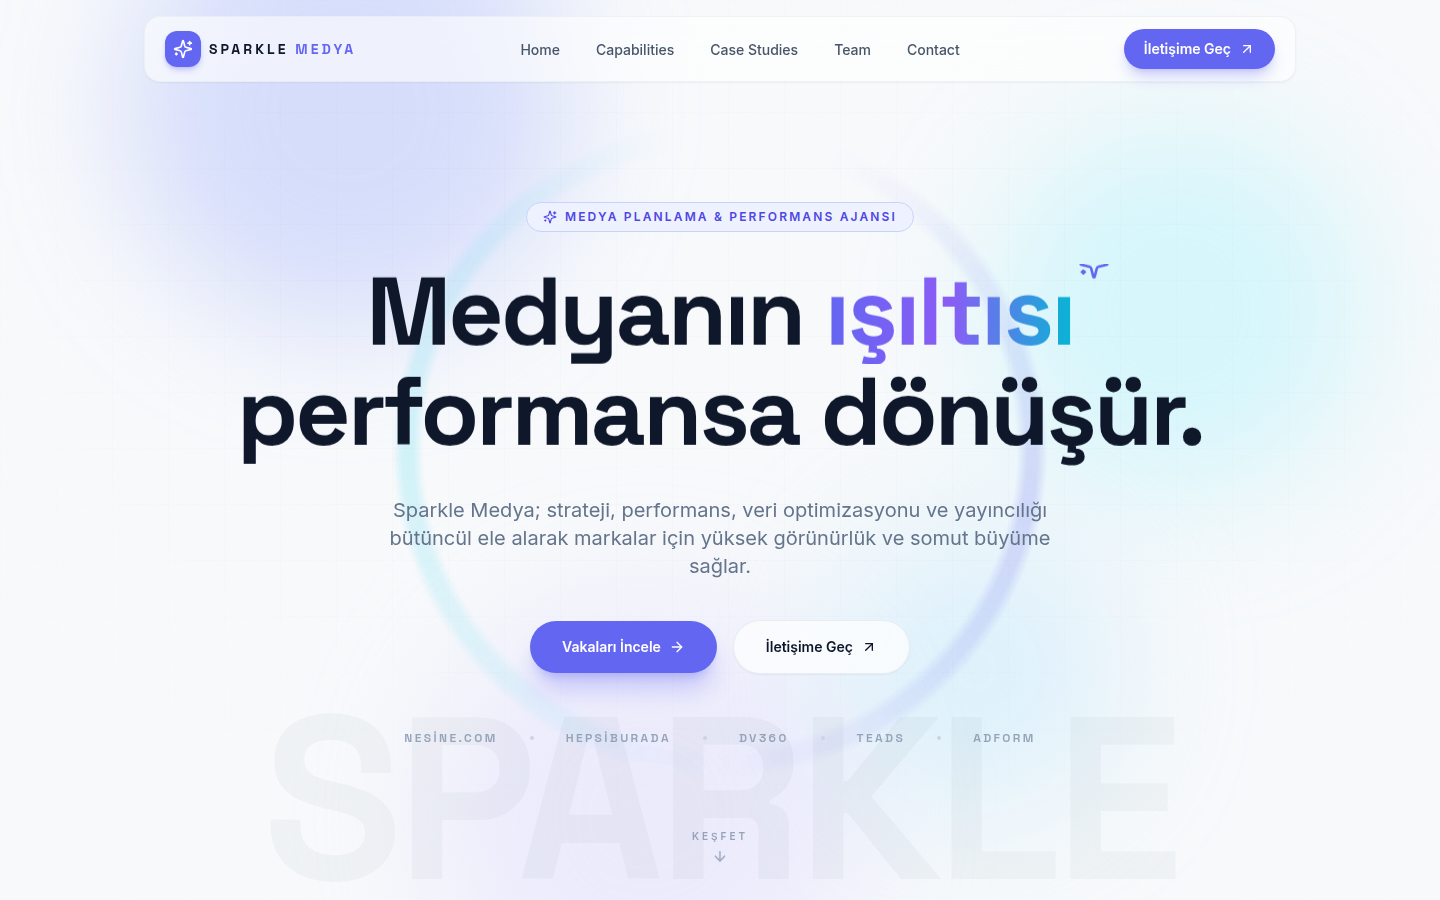
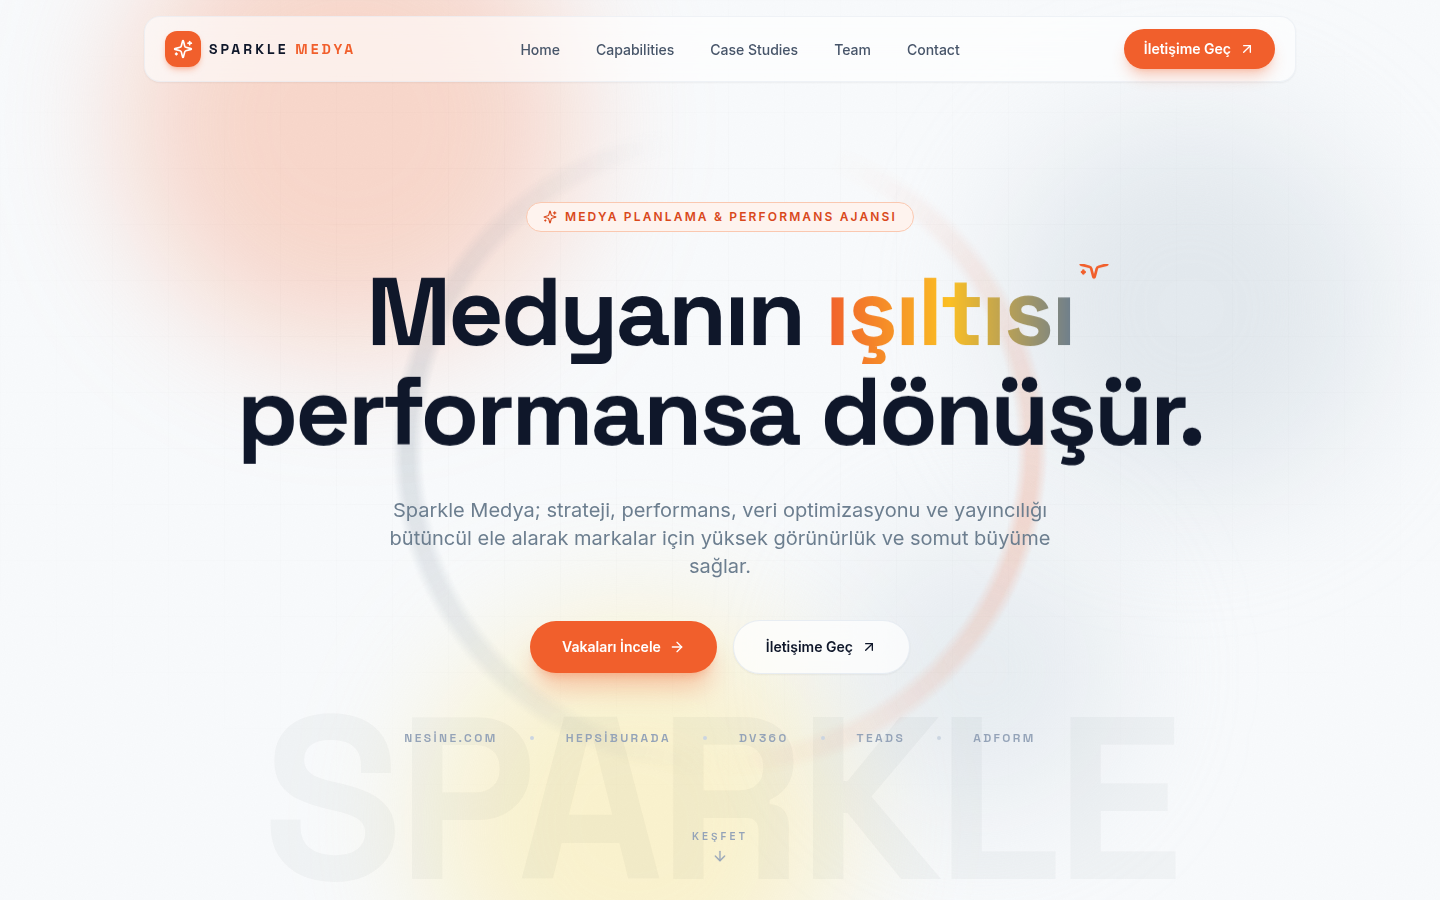
Add files via upload

diff --git a/src/data/content.jsx b/src/data/content.jsx
@@ -35,13 +35,13 @@ export const NAV_LINKS = [
 /* Page background tints, morphed as each section takes the stage. */
 export const SECTION_BG = {
   hero: "#F8FAFC",
-  manifesto: "#EEF2FF",
+  manifesto: "#FEF3EE",
   stats: "#FFFFFF",
   capabilities: "#F8FAFC",
-  cases: "#EEF2FF",
+  cases: "#F3F6F8",
   process: "#FFFFFF",
   team: "#F1F5F9",
-  contact: "#F8FAFC",
+  contact: "#FEF3EE",
 };
 
 export const CAPABILITIES = [
@@ -53,7 +53,7 @@ export const CAPABILITIES = [
       "DV360, Teads ve Adform üzerinde tam yetkin ekiplerle programatik satın alma, gerçek zamanlı optimizasyon ve şeffaf raporlama.",
     tags: ["DV360", "Teads", "Adform"],
     icon: MonitorPlay,
-    accent: "violet",
+    accent: "amber",
   },
   {
     id: "performance",
@@ -73,7 +73,7 @@ export const CAPABILITIES = [
       "Doğru yüzler ve oyun içi sesli reklam formatlarıyla markanızı, erişilmesi en zor kitlelerin tam kalbine taşıyoruz.",
     tags: ["Influencer", "In-Game Audio", "Branded Content"],
     icon: Gamepad2,
-    accent: "violet",
+    accent: "amber",
   },
 ];
 
@@ -91,7 +91,7 @@ export const CASE_STUDIES = [
     ],
     awards: ["Felis", "MIXX"],
     art: "dco",
-    gradient: "from-brand-500/15 via-violet-400/10 to-transparent",
+    gradient: "from-brand-500/15 via-amber-300/10 to-transparent",
     chip: "text-brand-600 bg-brand-50 border-brand-200",
     number: "01",
   },
@@ -108,8 +108,8 @@ export const CASE_STUDIES = [
     ],
     awards: ["Kristal Elma"],
     art: "audio",
-    gradient: "from-cyan-500/15 via-cyan-300/10 to-transparent",
-    chip: "text-cyan-700 bg-cyan-50 border-cyan-200",
+    gradient: "from-steel-500/15 via-steel-300/10 to-transparent",
+    chip: "text-steel-600 bg-steel-50 border-steel-200",
     number: "02",
   },
   {
@@ -125,7 +125,7 @@ export const CASE_STUDIES = [
     ],
     awards: ["MIXX Europe"],
     art: "film",
-    gradient: "from-violet-500/15 via-cyan-400/10 to-transparent",
+    gradient: "from-amber-400/15 via-steel-300/10 to-transparent",
     chip: "text-brand-600 bg-brand-50 border-brand-200",
     number: "03",
   },
@@ -138,7 +138,7 @@ export const TEAM = [
     experience: "27 Yıl Tecrübe",
     years: 27,
     initials: "BK",
-    accent: "violet",
+    accent: "amber",
     bio: "Türkiye'nin önde gelen medya gruplarında satın alma ve strateji liderliği.",
   },
   {
@@ -156,7 +156,7 @@ export const TEAM = [
     experience: "19 Yıl Tecrübe",
     years: 19,
     initials: "ÖG",
-    accent: "violet",
+    accent: "amber",
     bio: "Performans pazarlama ve veri odaklı büyüme operasyonları uzmanı.",
   },
 ];
@@ -238,7 +238,7 @@ export const BENTO_CAPABILITIES = [
     title: "Performance",
     description: "Dönüşüm odaklı medya; her lira ölçülür, her gün optimize edilir.",
     icon: TrendingUp,
-    accent: "cyan",
+    accent: "steel",
     span: "lg:col-span-2",
   },
   {
@@ -246,7 +246,7 @@ export const BENTO_CAPABILITIES = [
     title: "SEO / Analytics",
     description: "Arama görünürlüğü ve veri altyapısı tek çatıda.",
     icon: Search,
-    accent: "violet",
+    accent: "amber",
     span: "lg:col-span-2",
   },
   {
@@ -263,7 +263,7 @@ export const BENTO_CAPABILITIES = [
     description:
       "Oyun içi sesli reklamla ekrana bakmayan kullanıcıya bile ulaşın — kanıtlanmış 14X gelir çarpanı.",
     icon: Gamepad2,
-    accent: "cyan",
+    accent: "steel",
     span: "lg:col-span-3",
   },
   {
@@ -272,7 +272,7 @@ export const BENTO_CAPABILITIES = [
     description:
       "Kantar iş birliğiyle marka bilinirliği ve satış etkisi bağımsız ölçümlenir.",
     icon: Gauge,
-    accent: "violet",
+    accent: "amber",
     span: "lg:col-span-3",
   },
   {
@@ -314,7 +314,7 @@ export const PROCESS_STEPS = [
     description:
       "Markanızı, kitlenizi ve rakip sahayı veriyle okuyoruz; fırsat haritası çıkıyor.",
     icon: Compass,
-    accent: "violet",
+    accent: "amber",
   },
   {
     step: "02",
@@ -330,7 +330,7 @@ export const PROCESS_STEPS = [
     description:
       "Kampanya tüm kanallarda canlıya alınıyor; ilk saatten itibaren canlı izleme.",
     icon: Rocket,
-    accent: "violet",
+    accent: "amber",
   },
   {
     step: "04",

diff --git a/src/components/Hero.jsx b/src/components/Hero.jsx
@@ -87,16 +87,16 @@ const Hero = () => {
       {/* Gradient mesh background */}
       <div className="pointer-events-none absolute inset-0" aria-hidden="true">
         <div className="hero-blob absolute -top-24 left-[8%] h-[28rem] w-[28rem] rounded-full bg-brand-300/40 blur-3xl" />
-        <div className="hero-blob absolute right-[5%] top-[12%] h-[24rem] w-[24rem] rounded-full bg-cyan-200/40 blur-3xl" />
-        <div className="hero-blob absolute bottom-[-8rem] left-[30%] h-[26rem] w-[26rem] rounded-full bg-violet-200/40 blur-3xl" />
-        <div className="hero-blob absolute bottom-[10%] right-[22%] h-[18rem] w-[18rem] rounded-full bg-sky-200/40 blur-3xl" />
+        <div className="hero-blob absolute right-[5%] top-[12%] h-[24rem] w-[24rem] rounded-full bg-steel-200/50 blur-3xl" />
+        <div className="hero-blob absolute bottom-[-8rem] left-[30%] h-[26rem] w-[26rem] rounded-full bg-amber-200/40 blur-3xl" />
+        <div className="hero-blob absolute bottom-[10%] right-[22%] h-[18rem] w-[18rem] rounded-full bg-steel-200/40 blur-3xl" />
 
         {/* Rotating conic accent ring */}
         <div
           className="hero-ring absolute left-1/2 top-1/2 h-[46rem] w-[46rem] -translate-x-1/2 -translate-y-1/2 rounded-full opacity-60"
           style={{
             background:
-              "conic-gradient(from 0deg, transparent 0deg, rgba(99,102,241,0.35) 80deg, transparent 160deg, rgba(34,211,238,0.3) 250deg, transparent 330deg)",
+              "conic-gradient(from 0deg, transparent 0deg, rgba(241,95,44,0.32) 80deg, transparent 160deg, rgba(108,126,143,0.32) 250deg, transparent 330deg)",
             maskImage:
               "radial-gradient(circle, transparent 57%, black 59%, black 61%, transparent 63%)",
             WebkitMaskImage:
@@ -143,7 +143,7 @@ const Hero = () => {
             <span className="hero-line-inner block will-change-transform">
               Medyanın{" "}
               <span className="relative inline-block">
-                <span className="bg-gradient-to-r from-brand-500 via-violet-500 to-cyan-500 bg-clip-text text-transparent">
+                <span className="bg-gradient-to-r from-brand-500 via-amber-400 to-steel-500 bg-clip-text text-transparent">
                   ışıltısı
                 </span>
                 <Sparkles

diff --git a/tailwind.config.js b/tailwind.config.js
@@ -15,25 +15,25 @@ export default {
         ],
         display: ["Space Grotesk", "Inter", "ui-sans-serif", "sans-serif"],
       },
-      /* Premium light-mode palette:
-         brand = electric indigo (#6366F1 @ 500) — primary accent
-         steel = cool support grey (#6C7E8F @ 500) — neutrals
-         Limited violet/cyan/amber detail accents come from Tailwind defaults.
-         ink/body are named aliases for the theme text colours. */
+      /* Sparkle Medya corporate palette:
+         brand = kurumsal turuncu (#F15F2C @ 500) — primary accent
+         steel = kurumsal gri    (#6C7E8F @ 500) — secondary support
+         Warm amber detail accents come from Tailwind defaults; no indigo,
+         violet or cyan anywhere. ink/body are named text-colour aliases. */
       colors: {
         ink: "#0F172A",
-        body: "#64748B",
+        body: "#6C7E8F",
         brand: {
-          50: "#EEF2FF",
-          100: "#E0E7FF",
-          200: "#C7D2FE",
-          300: "#A5B4FC",
-          400: "#818CF8",
-          500: "#6366F1",
-          600: "#4F46E5",
-          700: "#4338CA",
-          800: "#3730A3",
-          900: "#312E81",
+          50: "#FEF3EE",
+          100: "#FDE4D8",
+          200: "#FAC8B0",
+          300: "#F7A382",
+          400: "#F47F53",
+          500: "#F15F2C",
+          600: "#D9481B",
+          700: "#B23A15",
+          800: "#8C2E12",
+          900: "#72260F",
         },
         steel: {
           50: "#F3F6F8",

diff --git a/src/components/Contact.jsx b/src/components/Contact.jsx
@@ -69,7 +69,7 @@ const Contact = () => {
           </div>
           <h2 className="contact-reveal mt-6 font-display text-4xl font-bold tracking-tight text-ink sm:text-5xl">
             Markanızı{" "}
-            <span className="bg-gradient-to-r from-brand-500 to-cyan-500 bg-clip-text text-transparent">
+            <span className="bg-gradient-to-r from-brand-500 to-amber-500 bg-clip-text text-transparent">
               parlatalım
             </span>
             .
@@ -183,7 +183,7 @@ const Contact = () => {
 
               <button
                 type="submit"
-                className="group mt-8 inline-flex w-full items-center justify-center gap-2 rounded-xl bg-gradient-to-r from-brand-500 via-violet-500 to-cyan-500 px-8 py-4 text-sm font-bold text-white shadow-xl shadow-brand-500/25 transition-all duration-300 hover:-translate-y-0.5 hover:shadow-2xl hover:shadow-brand-500/35 focus:outline-none focus:ring-4 focus:ring-brand-500/30"
+                className="group mt-8 inline-flex w-full items-center justify-center gap-2 rounded-xl bg-gradient-to-r from-brand-500 via-amber-400 to-steel-500 px-8 py-4 text-sm font-bold text-white shadow-xl shadow-brand-500/25 transition-all duration-300 hover:-translate-y-0.5 hover:shadow-2xl hover:shadow-brand-500/35 focus:outline-none focus:ring-4 focus:ring-brand-500/30"
               >
                 Gönder
                 <Send

diff --git a/src/components/Capabilities.jsx b/src/components/Capabilities.jsx
@@ -10,15 +10,15 @@ const ACCENTS = {
     glow: "bg-brand-300/40",
     tag: "border-brand-200 bg-brand-50/80 text-brand-600",
   },
-  cyan: {
-    icon: "border-cyan-200 bg-cyan-50 text-cyan-700",
-    glow: "bg-cyan-300/40",
-    tag: "border-cyan-200 bg-cyan-50/80 text-cyan-700",
+  steel: {
+    icon: "border-steel-200 bg-steel-50 text-steel-600",
+    glow: "bg-steel-300/40",
+    tag: "border-steel-200 bg-steel-50/80 text-steel-600",
   },
-  violet: {
-    icon: "border-violet-200 bg-violet-50 text-violet-600",
-    glow: "bg-violet-300/40",
-    tag: "border-violet-200 bg-violet-50/80 text-violet-600",
+  amber: {
+    icon: "border-amber-200 bg-amber-50 text-amber-600",
+    glow: "bg-amber-300/40",
+    tag: "border-amber-200 bg-amber-50/80 text-amber-700",
   },
 };
 
@@ -164,7 +164,7 @@ const Capabilities = () => {
             />
             <div
               aria-hidden="true"
-              className="pointer-events-none absolute -bottom-24 -left-16 h-48 w-48 rounded-full bg-cyan-400/20 blur-3xl"
+              className="pointer-events-none absolute -bottom-24 -left-16 h-48 w-48 rounded-full bg-steel-400/25 blur-3xl"
             />
             <div className="relative">
               <div className="inline-flex h-12 w-12 items-center justify-center rounded-xl border border-white/20 bg-white/10 text-brand-200 backdrop-blur-sm">

diff --git a/src/components/Team.jsx b/src/components/Team.jsx
@@ -17,7 +17,7 @@ const TeamCard = ({ member }) => {
       />
       <div className="relative">
         {/* Monogram avatar with gradient ring */}
-        <div className="mx-auto h-24 w-24 rounded-full bg-gradient-to-br from-brand-500 via-violet-500 to-cyan-400 p-[3px] transition-transform duration-500 group-hover:scale-105">
+        <div className="mx-auto h-24 w-24 rounded-full bg-gradient-to-br from-brand-500 via-amber-400 to-steel-400 p-[3px] transition-transform duration-500 group-hover:scale-105">
           <div
             className={
               "flex h-full w-full items-center justify-center rounded-full font-display text-2xl font-bold " +
@@ -46,7 +46,7 @@ const TeamCard = ({ member }) => {
           className="mt-6 flex items-baseline justify-center gap-2"
           aria-label={member.experience}
         >
-          <span className="bg-gradient-to-r from-brand-500 to-cyan-500 bg-clip-text font-display text-6xl font-bold leading-none tracking-tight text-transparent">
+          <span className="bg-gradient-to-r from-brand-500 to-amber-500 bg-clip-text font-display text-6xl font-bold leading-none tracking-tight text-transparent">
             {member.years}
           </span>
           <span className="flex flex-col items-start leading-tight">

diff --git a/src/components/CaseArt.jsx b/src/components/CaseArt.jsx
@@ -12,20 +12,20 @@ import React from "react";
 const Defs = ({ id }) => (
   <defs>
     <linearGradient id={`${id}-violet`} x1="0" y1="0" x2="1" y2="1">
-      <stop offset="0" stopColor="#818CF8" />
-      <stop offset="1" stopColor="#4F46E5" />
+      <stop offset="0" stopColor="#F47F53" />
+      <stop offset="1" stopColor="#D9481B" />
     </linearGradient>
     <linearGradient id={`${id}-teal`} x1="0" y1="0" x2="1" y2="1">
-      <stop offset="0" stopColor="#22D3EE" />
-      <stop offset="1" stopColor="#0891B2" />
+      <stop offset="0" stopColor="#8DA0AF" />
+      <stop offset="1" stopColor="#6C7E8F" />
     </linearGradient>
     <linearGradient id={`${id}-fuchsia`} x1="0" y1="0" x2="1" y2="1">
       <stop offset="0" stopColor="#FCD34D" />
       <stop offset="1" stopColor="#F59E0B" />
     </linearGradient>
     <linearGradient id={`${id}-soft`} x1="0" y1="0" x2="1" y2="1">
-      <stop offset="0" stopColor="#E0E7FF" />
-      <stop offset="1" stopColor="#CFFAFE" />
+      <stop offset="0" stopColor="#FDE4D8" />
+      <stop offset="1" stopColor="#E7ECF0" />
     </linearGradient>
   </defs>
 );

diff --git a/src/components/Manifesto.jsx b/src/components/Manifesto.jsx
@@ -61,11 +61,11 @@ const Manifesto = () => {
               className={
                 "manifesto-word mr-[0.32em] inline-block will-change-transform " +
                 (word.gradient
-                  ? "bg-gradient-to-r from-brand-500 via-violet-500 to-cyan-500 bg-clip-text text-transparent"
+                  ? "bg-gradient-to-r from-brand-500 via-amber-400 to-steel-500 bg-clip-text text-transparent"
                   : word.accent === "violet"
                   ? "text-brand-500"
                   : word.accent === "teal"
-                  ? "text-cyan-600"
+                  ? "text-steel-500"
                   : "")
               }
             >

diff --git a/src/components/Process.jsx b/src/components/Process.jsx
@@ -76,7 +76,7 @@ const Process = () => {
             className="absolute left-0 right-0 top-10 hidden h-0.5 bg-slate-100 lg:block"
             aria-hidden="true"
           >
-            <div className="process-line h-full w-full origin-left bg-gradient-to-r from-brand-500 via-violet-500 to-cyan-500" />
+            <div className="process-line h-full w-full origin-left bg-gradient-to-r from-brand-500 via-amber-400 to-steel-500" />
           </div>
 
           <div className="process-grid grid grid-cols-1 gap-6 sm:grid-cols-2 lg:grid-cols-4">

diff --git a/src/components/CaseStudies.jsx b/src/components/CaseStudies.jsx
@@ -299,7 +299,7 @@ const CaseStudies = () => {
                 <div className="mt-6 hidden h-1 w-44 overflow-hidden rounded-full bg-slate-200 lg:block">
                   <div
                     ref={progressRef}
-                    className="h-full w-full origin-left scale-x-0 bg-gradient-to-r from-brand-500 to-cyan-500"
+                    className="h-full w-full origin-left scale-x-0 bg-gradient-to-r from-brand-500 to-amber-500"
                   />
                 </div>
               </div>

diff --git a/src/components/StatsBand.jsx b/src/components/StatsBand.jsx
@@ -86,7 +86,7 @@ const StatsBand = () => {
                 <span className="stat-value text-ink" data-target={stat.value}>
                   {stat.value}
                 </span>
-                <span className="bg-gradient-to-r from-brand-500 to-cyan-500 bg-clip-text text-transparent">
+                <span className="bg-gradient-to-r from-brand-500 to-amber-500 bg-clip-text text-transparent">
                   {stat.suffix}
                 </span>
               </p>

diff --git a/src/components/ui.jsx b/src/components/ui.jsx
@@ -21,7 +21,7 @@ export const SectionBadge = ({ children, tone = "violet" }) => (
     className={
       "inline-flex items-center gap-2 rounded-full border px-4 py-1.5 text-xs font-semibold tracking-[0.18em] uppercase " +
       (tone === "teal"
-        ? "border-cyan-200 bg-cyan-50 text-cyan-700"
+        ? "border-steel-200 bg-steel-50 text-steel-600"
         : "border-brand-200 bg-brand-50 text-brand-600")
     }
   >
